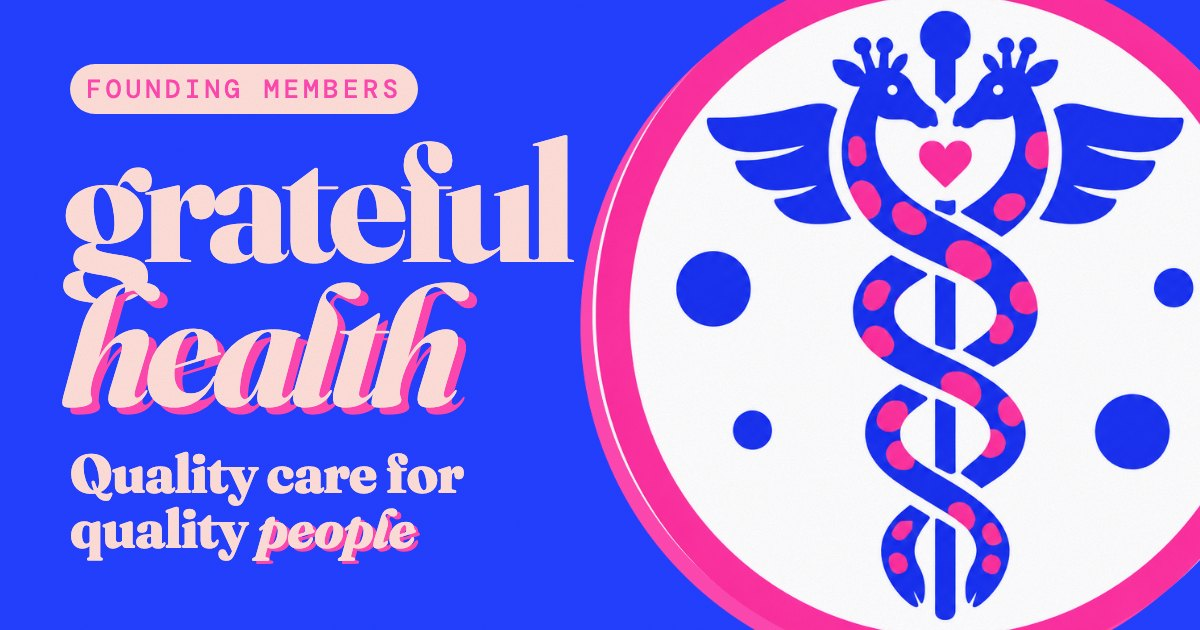
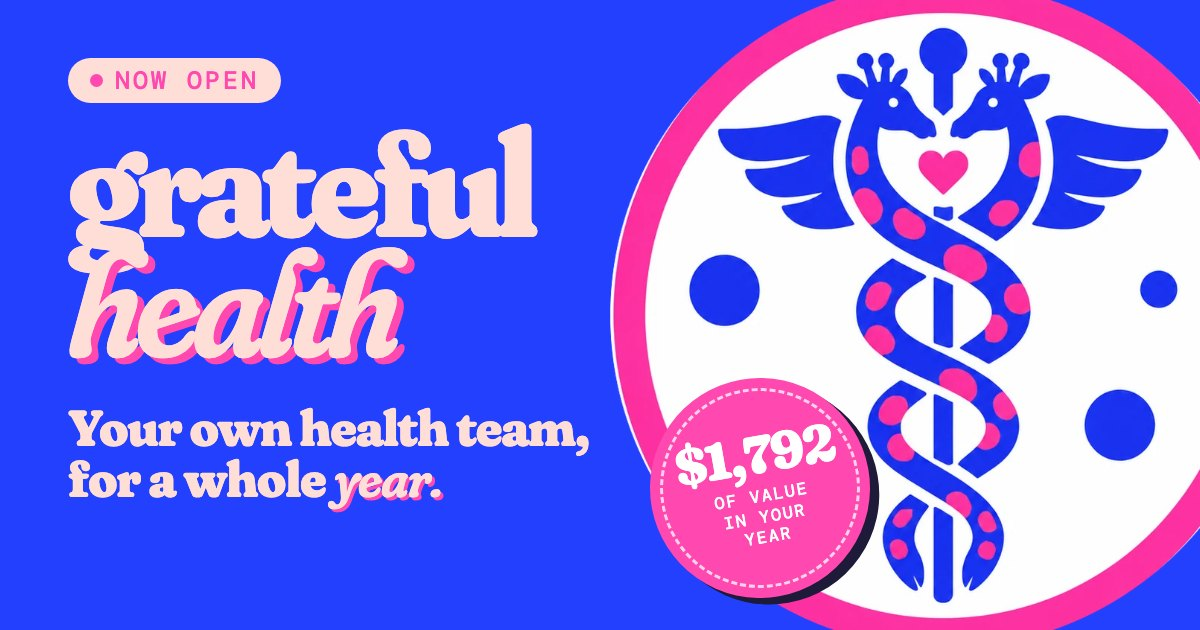
grateful.gg/health: now open, your own health team for a whole year, $1,792 of value
The card keeps the cobalt look and the mark; Founding members and Quality care for quality
people are out (the page changed in oasis PR 1130). The link text names the partners and
member pricing for Giraffes instead of repeating the card.

diff --git a/health/index.html b/health/index.html
@@ -3,22 +3,22 @@
 <head>
 <meta charset="utf-8">
 <meta name="viewport" content="width=device-width, initial-scale=1">
-<title>One membership for your health · The Oasis</title>
+<title>A dentist, a physician, a lab and Gigi by text · The Oasis</title>
 
 <meta property="og:type" content="website">
 <meta property="og:site_name" content="The Oasis">
-<meta property="og:title" content="One membership for your health">
-<meta property="og:description" content="Prescription peptides, exosome skin care, dentistry and biological age testing at the Grateful Rate, plus weekly calls with expert Giraffes.">
+<meta property="og:title" content="A dentist, a physician, a lab and Gigi by text">
+<meta property="og:description" content="Dr. Tzur Gabi, Jennifer Tabiza, OD, Platform Health&#x27;s licensed physicians and TruDiagnostic. Grateful Giraffes sign in for member pricing.">
 <meta property="og:url" content="https://grateful.gg/health/">
 <meta property="og:image" content="https://grateful.gg/health/cover.jpg">
 <meta property="og:image:secure_url" content="https://grateful.gg/health/cover.jpg">
 <meta property="og:image:type" content="image/jpeg">
 <meta property="og:image:width" content="1200">
 <meta property="og:image:height" content="630">
-<meta property="og:image:alt" content="Grateful Health, quality care for quality people: two giraffes on a caduceus inside a cell">
+<meta property="og:image:alt" content="Grateful Health, now open: two giraffes on a caduceus inside a cell, with a sticker reading 1,792 dollars of value in your year">
 <meta name="twitter:card" content="summary_large_image">
-<meta name="twitter:title" content="One membership for your health">
-<meta name="twitter:description" content="Prescription peptides, exosome skin care, dentistry and biological age testing at the Grateful Rate, plus weekly calls with expert Giraffes.">
+<meta name="twitter:title" content="A dentist, a physician, a lab and Gigi by text">
+<meta name="twitter:description" content="Dr. Tzur Gabi, Jennifer Tabiza, OD, Platform Health&#x27;s licensed physicians and TruDiagnostic. Grateful Giraffes sign in for member pricing.">
 <meta name="twitter:image" content="https://grateful.gg/health/cover.jpg">
 
 <!-- Humans go to the real page; crawlers read the tags above first. The card
@@ -46,8 +46,8 @@
 </head>
 <body>
   <main class="card">
-    <img src="https://grateful.gg/health/cover.jpg" alt="Grateful Health, quality care for quality people: two giraffes on a caduceus inside a cell" width="1200" height="630">
-    <div class="b"><h1>One membership for your health</h1><p>Prescription peptides, exosome skin care, dentistry and biological age testing at the Grateful Rate, plus weekly calls with expert Giraffes.</p>
+    <img src="https://grateful.gg/health/cover.jpg" alt="Grateful Health, now open: two giraffes on a caduceus inside a cell, with a sticker reading 1,792 dollars of value in your year" width="1200" height="630">
+    <div class="b"><h1>A dentist, a physician, a lab and Gigi by text</h1><p>Dr. Tzur Gabi, Jennifer Tabiza, OD, Platform Health&#x27;s licensed physicians and TruDiagnostic. Grateful Giraffes sign in for member pricing.</p>
     <a class="btn" href="https://app.grateful.gg/gratefulhealth">Open the event &rarr;</a></div>
   </main>
 </body>
